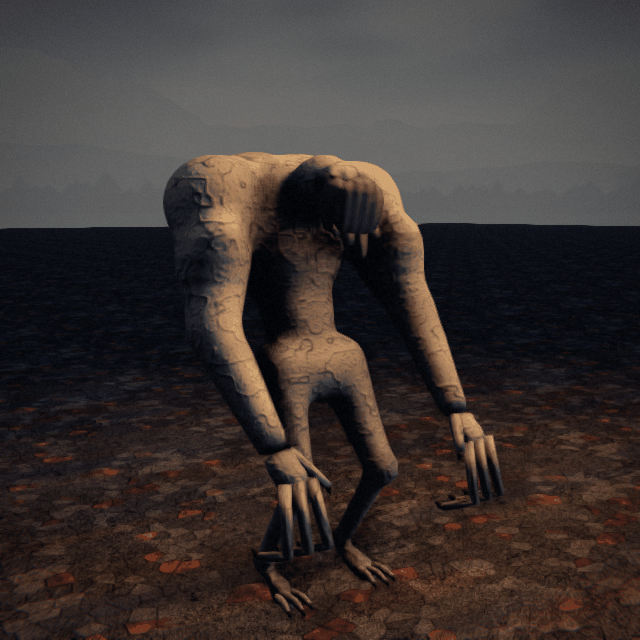
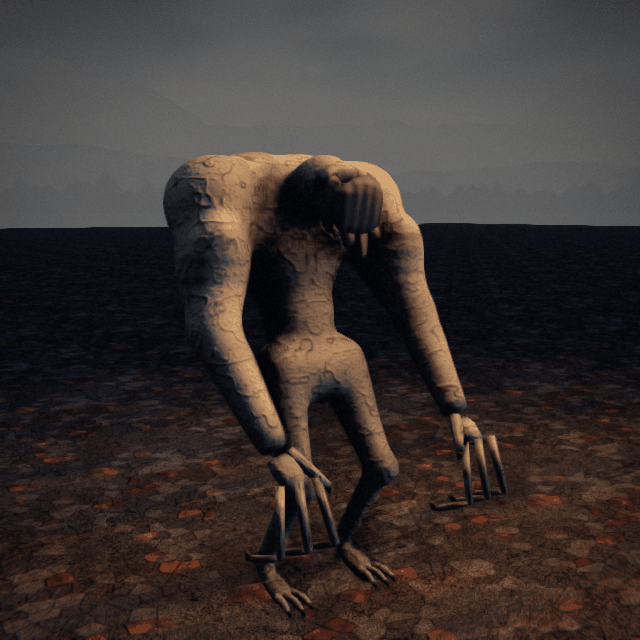
Tower Jaw's and the Mourners' stills and notes after G1's review: the big blunt head, the long orange-brown incisors, the paddle tail, thin hooked fingers
Claude-Session: https://claude.ai/code/session_01LfKiy7Wwvea4nZYrWspj2u

diff --git a/docs/design/creatures/tower-jaw.md b/docs/design/creatures/tower-jaw.md
@@ -129,16 +129,19 @@ NEVER     a bridge; it never boards the train
 ![Its threat: reared, the incisors bared, the tail up to slap](tower-jaw-threat.png)
 
 - **Model** (`tools/blender/tower_jaw.py`, SK_TowerJaw, 26 bones): one fused skin from the rump through the barrel of
-  the chest, the hump of the shoulders standing over the head, the thick neck, the blunt head (cheeks, square wet
-  muzzle, flews, black nose, small ears), the bear's forelegs down to broad shovel paws, the folded hind legs on webbed
-  feet and the tail's root out to its flat paddle. Over it: some 540 wet fur clumps slicked into spikes (combed back and
+  the chest, the hump of the shoulders standing over the head, the thick neck, the big blunt head (a broad flat skull,
+  puffed cheeks, a heavy rounded wet muzzle, flews, a big black nose, small round ears), the bear's forelegs down to
+  broad shovel paws, the folded hind legs on webbed feet and the tail's root out to its broad flat paddle, held up off
+  the ground so its scaled top shows from the side. Over it: some 540 wet fur clumps slicked into spikes (combed back and
   down the way the fur lies, hanging under the belly), 80 timber splinters driven in at all angles, a ridge of black
-  splintered spines from the nape to the rump (tallest over the hump), two iron-dark chisel incisors as long as a
-  forearm (chipped), plank claws, small black eyes. **15,382 triangles** (distance copy 6,139), about 1.6 m at the hump
+  splintered spines from the nape to the rump (tallest over the hump), two broad flat chisel-ended incisors as long as a
+  forearm hanging well below the lip, plank claws, small black eyes high on the skull. **15,528 triangles** (distance
+  copy 6,199), about 1.6 m at the hump
   and 2.2 m to the spines' tips.
 - **Colour** (`tools/models/recipes/tower_jaw.py`, one 2048 atlas): dark brown soaked fur with lighter clump tips and black
   hollows, charred round the spines' roots; the spines black char split by cracks that glow ember-red (an emission map);
-  the incisors iron-dark with rust run down them and bare metal at their chipped ends; dark wet muzzle and paws, a black
+  the incisors orange-brown (a beaver's, stained: G1's review), darker streaks run down them, paler at their chipped
+  chisel ends; dark wet muzzle and paws, a black
   glistening nose; a dark scaled tail; weathered splinters pale where they snapped; old dark timber claws.
 - **Clips**: gnaw (side-on, the head turned to the post and wrenching, the jaw working; chips fly), turn (head up,
   listening), threat (reared, incisors bared, the tail raised and slammed flat), lunge, retreat (a humping lope), hit,

diff --git a/docs/design/creatures/mourners.md b/docs/design/creatures/mourners.md
@@ -127,8 +127,8 @@ HOME      the body in a car of the train (or the train leaving) → they keen, a
   the starved waist, the ribs' cage leant back over it, the great hump of the shoulders and bunched upper arms, thin
   knobbed legs, the small skull pushed forward low between the shoulders, the brow, and the veil: a curtain of the face's
   own loose skin hanging over the eyes with a few ragged rags off its hem (they sway on the veil bone). Over it: three
-  two-boned hooked fingers and a thumb a hand, twice the palm's length, the nails curled under; three clawed toes; wet
-  black glints of eyes at the veil's edges. **6,298 triangles** (distance copy 2,518), stooped to 1.0 m.
+  thin, two-boned hooked fingers and a thumb a hand, twice the palm's length, the nails curled under; three clawed toes; wet
+  black glints of eyes at the veil's edges. **6,116 triangles** (distance copy 2,446), stooped to 1.0 m.
 - **Colour** (`tools/models/recipes/mourner.py`, one 2048 atlas): ash-pale, dry, crazed like old clay (the cracks baked
   into the normal map and darkened, a pale lifted rim along each), grey dust on whatever faces up, bruised grey-violet
   at the joints, grimed lower down and along the fingers; the veil darker and sallow; the nails dark horn.
